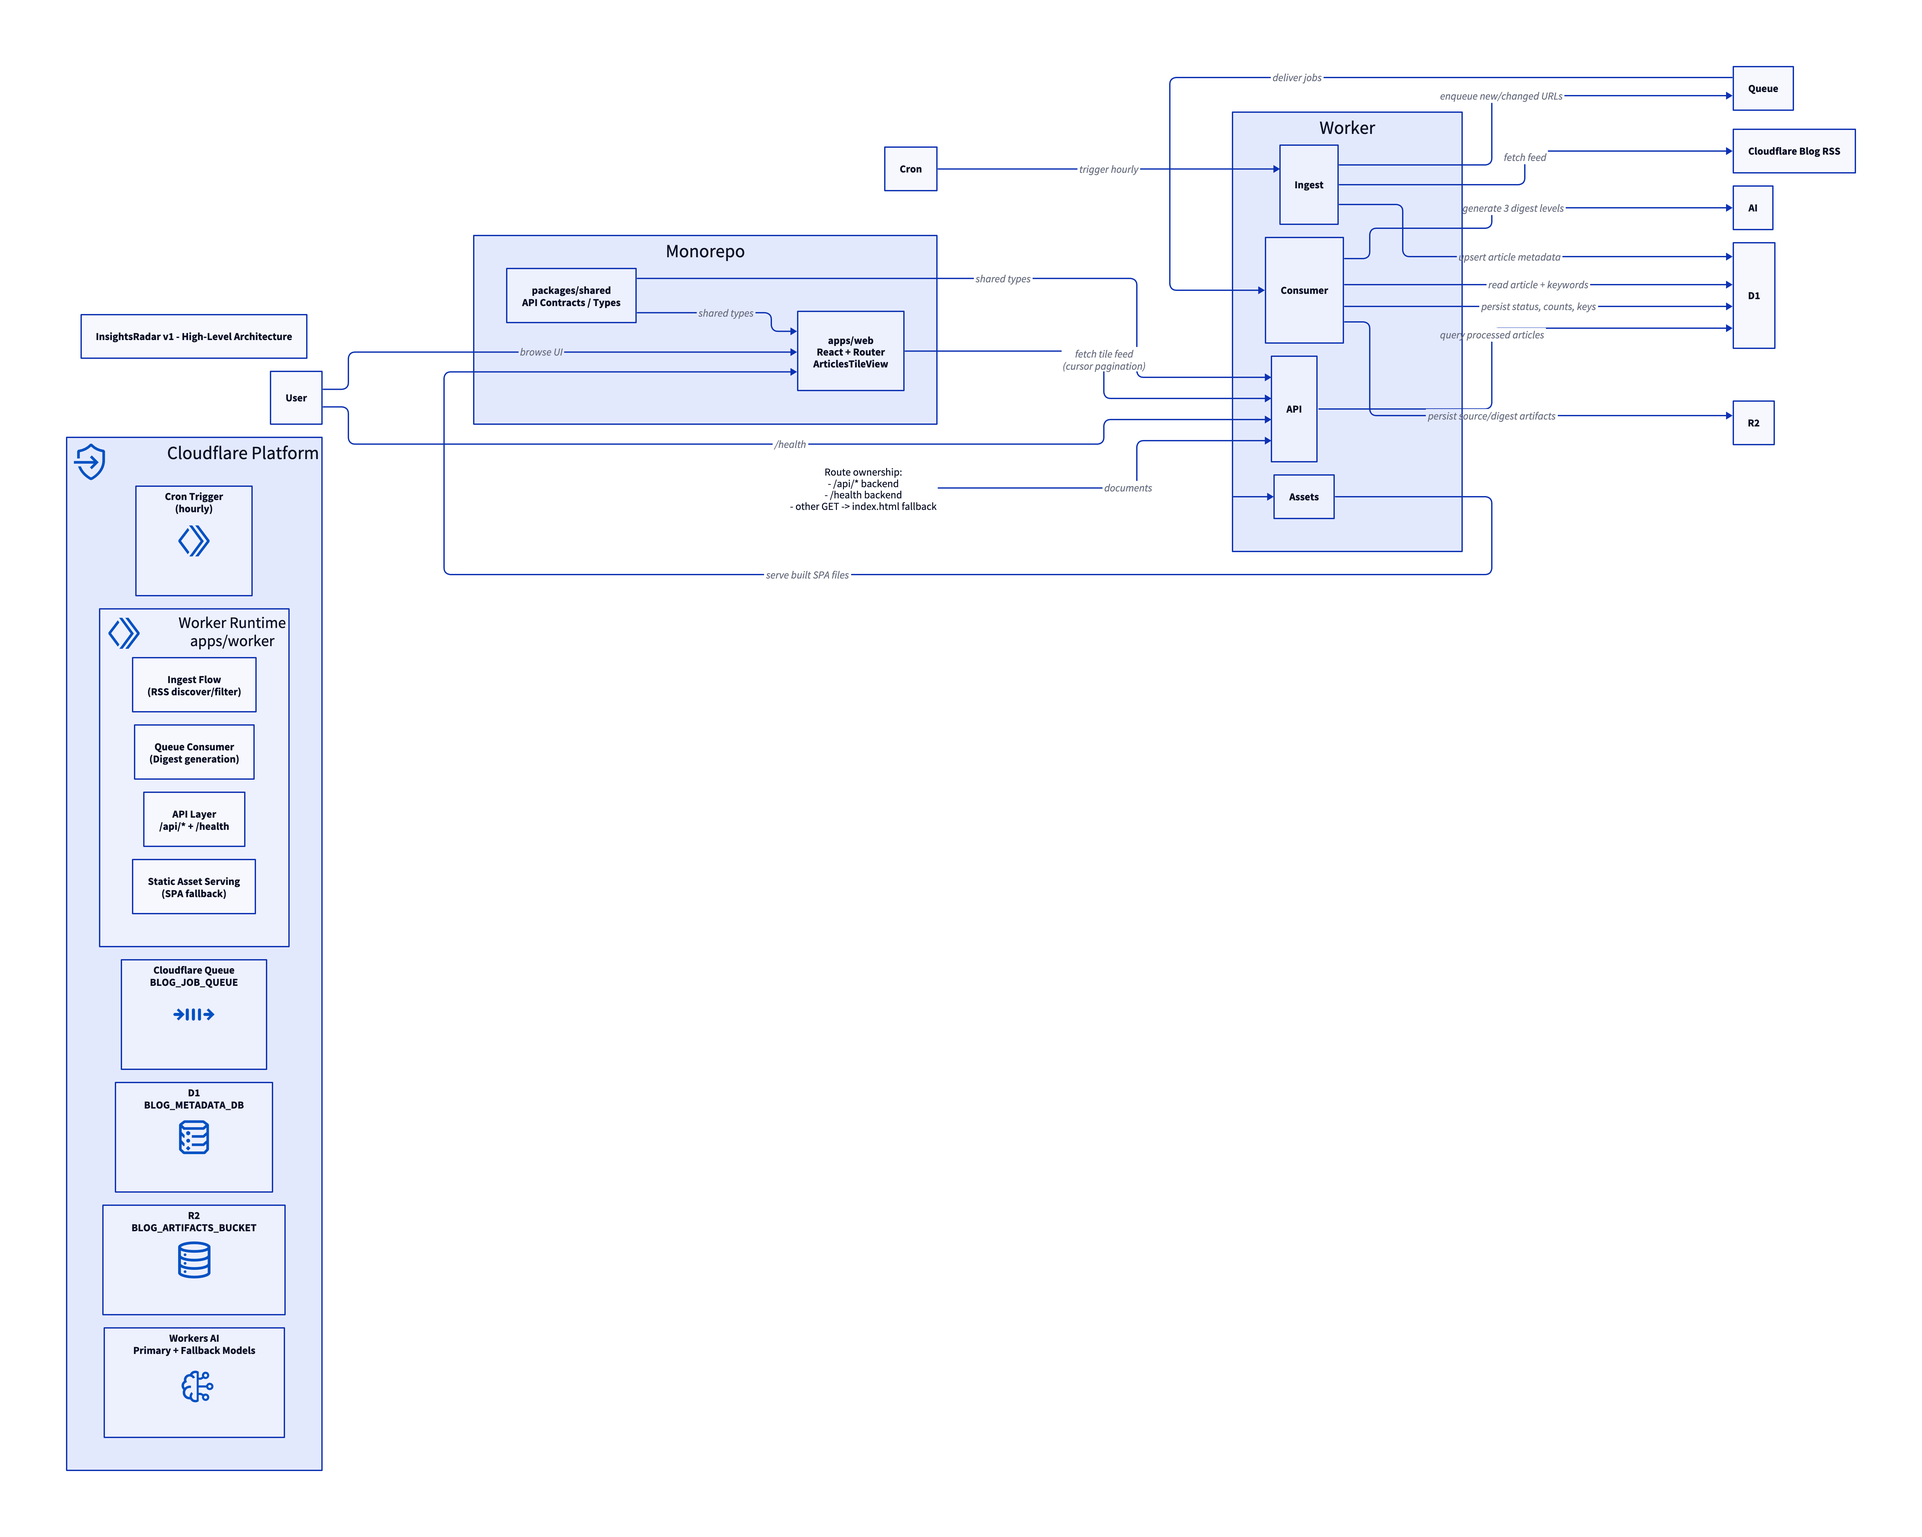
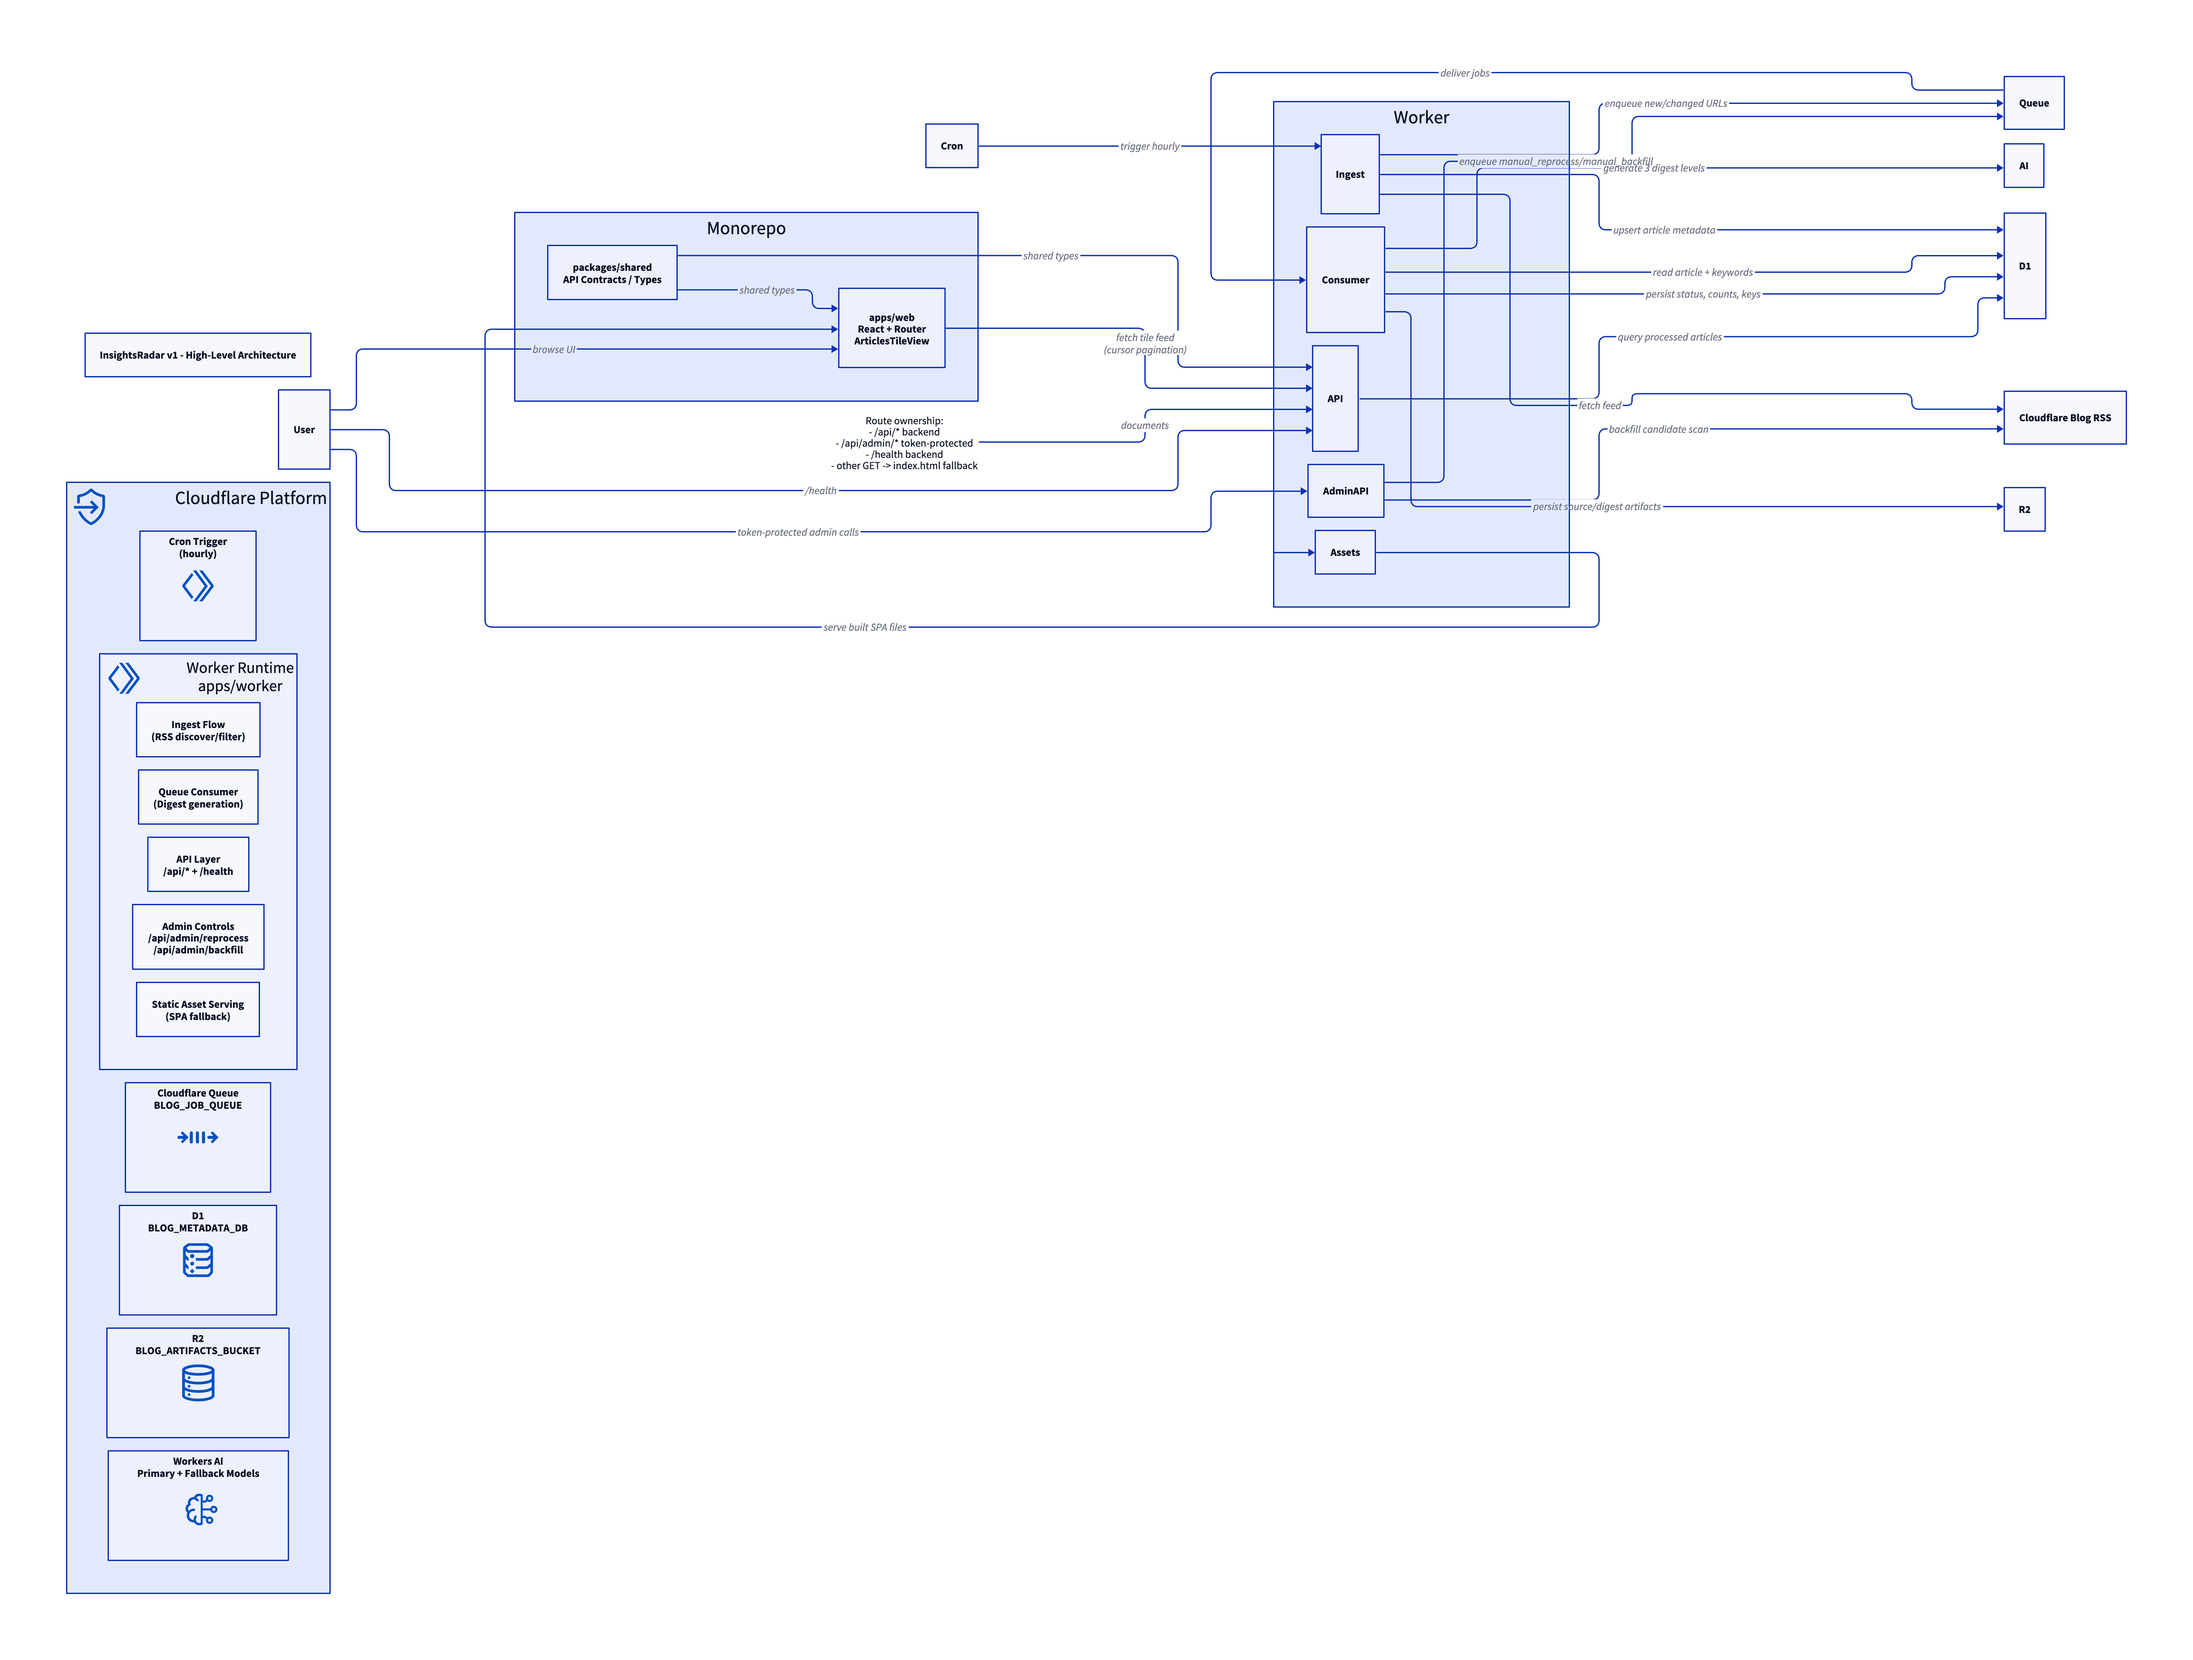
feat(slice-10): add operational visibility logs and runbook [2026-05-10 01:44 AEST]

diff --git a/apps/worker/src/index.ts b/apps/worker/src/index.ts
@@ -45,6 +45,29 @@ function notFound(): Response {
   return json({ error: "Not Found" }, { status: 404 });
 }
 
+function logOps(event: {
+  phase: string;
+  articleId?: string;
+  modelPrimary?: string;
+  modelFallback?: string;
+  modelUsed?: string;
+  outcome?: string;
+  detail?: string;
+}): void {
+  console.log(
+    JSON.stringify({
+      at: new Date().toISOString(),
+      phase: event.phase,
+      articleId: event.articleId ?? null,
+      modelPrimary: event.modelPrimary ?? null,
+      modelFallback: event.modelFallback ?? null,
+      modelUsed: event.modelUsed ?? null,
+      outcome: event.outcome ?? null,
+      detail: event.detail ?? null
+    })
+  );
+}
+
 async function listArticles(request: Request, env: Env): Promise<Response> {
   if (!env.BLOG_METADATA_DB) {
     return json({ error: "BLOG_METADATA_DB binding is required" }, { status: 500 });
@@ -153,6 +176,8 @@ async function ingest(env: Env): Promise<void> {
   const config = loadConfig(env);
   const repository = new D1ArticleRepository(env.BLOG_METADATA_DB);
 
+  logOps({ phase: "ingest.start", outcome: "running" });
+
   await runIngestion({
     config,
     repository,
@@ -167,6 +192,8 @@ async function ingest(env: Env): Promise<void> {
       return parseCloudflareRss(xml);
     }
   });
+
+  logOps({ phase: "ingest.finish", outcome: "ok" });
 }
 
 async function processDigestQueueMessage(
@@ -185,8 +212,17 @@ async function processDigestQueueMessage(
 
   const config = loadConfig(env);
   const repository = new D1ArticleRepository(env.BLOG_METADATA_DB);
+  logOps({
+    phase: "digest.start",
+    articleId: message.canonicalUrl,
+    modelPrimary: config.primaryModel,
+    modelFallback: config.fallbackModel,
+    outcome: "running",
+    detail: message.reason
+  });
   const article = await repository.getArticleForDigest(message.canonicalUrl);
   if (!article) {
+    logOps({ phase: "digest.skip", articleId: message.canonicalUrl, outcome: "article_not_found" });
     return;
   }
 
@@ -234,6 +270,14 @@ async function processDigestQueueMessage(
       r2Level1Key: persisted.keys.level1Key,
       r2Level2Key: persisted.keys.level2Key
     });
+    logOps({
+      phase: "digest.finish",
+      articleId: message.canonicalUrl,
+      modelPrimary: config.primaryModel,
+      modelFallback: config.fallbackModel,
+      modelUsed: generation.modelUsed,
+      outcome: "processed"
+    });
     return;
   }
 
@@ -244,6 +288,15 @@ async function processDigestQueueMessage(
     modelUsedFinal,
     retryCount: generation.attempts.length,
     attemptsJson: JSON.stringify(generation.attempts)
+  });
+  logOps({
+    phase: "digest.finish",
+    articleId: message.canonicalUrl,
+    modelPrimary: config.primaryModel,
+    modelFallback: config.fallbackModel,
+    modelUsed: modelUsedFinal,
+    outcome: "digest_failed",
+    detail: generation.failureReason
   });
 }
 

diff --git a/docs/operations/operator-runbook.md b/docs/operations/operator-runbook.md
@@ -1,0 +1,107 @@
+# InsightsRadar Operator Runbook (v1)
+
+## Scope
+
+This runbook covers common operations for manual recovery and triage:
+
+- reprocess a single article by canonical URL
+- backfill from a given date
+- inspect status/failure fields in D1 and logs in Worker output
+
+## Prerequisites
+
+- Access to Cloudflare Worker logs and bindings
+- `ADMIN_TOKEN` configured in Worker environment
+- API base URL for deployed Worker
+
+## Status model
+
+D1 article records use:
+
+- `pending`
+- `processed`
+- `digest_failed`
+
+Failure diagnostics:
+
+- `failure_reason`
+- `retry_count`
+- `model_primary`
+- `model_fallback`
+- `model_used_final`
+
+## Manual reprocess
+
+Use when a specific article failed or has stale output.
+
+Endpoint:
+
+- `POST /api/admin/reprocess`
+
+Body:
+
+```json
+{
+  "canonical_url": "https://blog.cloudflare.com/example-post/"
+}
+```
+
+Auth (one of):
+
+- `x-admin-token: <ADMIN_TOKEN>`
+- `Authorization: Bearer <ADMIN_TOKEN>`
+
+Expected outcome:
+
+- response indicates `manual_reprocess` enqueue
+- queue consumer logs `digest.start` and terminal `digest.finish`
+
+## Manual backfill
+
+Use when a date range was missed or bootstrap gap must be recovered.
+
+Endpoint:
+
+- `POST /api/admin/backfill`
+
+Body:
+
+```json
+{
+  "start_date": "2026-05-01T00:00:00Z"
+}
+```
+
+Auth:
+
+- same as reprocess endpoint
+
+Expected outcome:
+
+- response includes enqueue count
+- queued articles run through normal digest pipeline
+
+## Log triage checklist
+
+Look for JSON log events with:
+
+- `phase`: `ingest.start` / `ingest.finish` / `digest.start` / `digest.finish`
+- `articleId` (canonical URL)
+- `modelPrimary`, `modelFallback`, `modelUsed`
+- `outcome`: `processed` or `digest_failed`
+
+If `digest_failed`:
+
+1. check `failure_reason` + `retry_count` in D1
+2. reprocess specific URL
+3. if repeated, evaluate model behavior and prompt constraints
+
+## Smoke validation loop
+
+For release confidence, run:
+
+1. trigger ingest (cron or manual schedule run)
+2. confirm new/changed article enqueued
+3. confirm queue processing reaches `processed`
+4. open `/` tile feed and verify article appears
+5. open summary and detail routes and verify digest content renders

diff --git a/meta/compact-delta.md b/meta/compact-delta.md
@@ -81,3 +81,9 @@ Current state:
 - Carry-forward: Admin operability contract requires configured admin token (`x-admin-token` or bearer), reprocess enqueues one canonical URL, and backfill enqueues deduped eligible URLs from RSS starting at requested ISO date.
 - Files: `apps/worker/src/index.ts`, `apps/worker/src/admin.ts`, `apps/worker/src/config.ts`, `apps/worker/src/ingest.ts`, `apps/worker/tests/admin.test.ts`, `apps/worker/tests/ingest.test.ts`, `meta/compact-delta.md`.
 - Validation: `npm test` (all workspaces pass; worker 31 tests), `npm run typecheck` (all workspaces pass), `npm run -w @insightsradar/worker dry-run` (pass with assets + bindings).
+
+## 2026-05-10 01:44 AEST
+- Change: Implemented slice #10 operational visibility by adding structured Worker lifecycle logs (`ingest.start/finish`, `digest.start/finish`) with article identity/model/outcome fields, publishing an operator runbook, and updating architecture diagram flows to include admin controls.
+- Carry-forward: Ops visibility contract requires JSON log events with phase/article/model/outcome plus D1 terminal states (`pending`,`processed`,`digest_failed`) for triage and runbook-guided recovery via admin endpoints.
+- Files: `apps/worker/src/index.ts`, `docs/operations/operator-runbook.md`, `docs/architecture/high-level-architecture.d2`, `docs/architecture/high-level-architecture.png`, `meta/compact-delta.md`.
+- Validation: `npm test` (all workspaces pass; worker 31 tests), `npm run typecheck` (all workspaces pass), `npm run build:web` (pass), `npm run -w @insightsradar/worker dry-run` (pass with assets + bindings).

diff --git a/meta/compact-delta-commit-map.md b/meta/compact-delta-commit-map.md
@@ -11,3 +11,4 @@ Format:
 - `2026-05-09 03:47 AEST - 5dfa8ed`
 - `2026-05-09 11:04 AEST - a829348`
 - `2026-05-10 01:21 AEST - 82c49a8`
+- `2026-05-10 01:37 AEST - 77a4a29`
